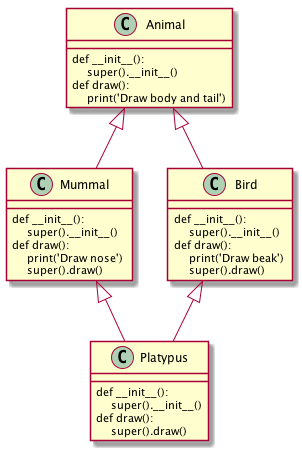
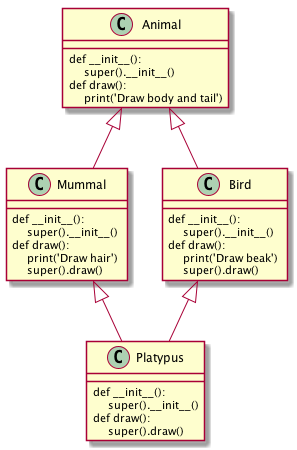
super() - proofreading

diff --git a/posts/ru/_posts/2018-09-20-python_super.md b/posts/ru/_posts/2018-09-20-python_super.md
@@ -2,7 +2,7 @@
 layout: post
 lang: ru
 ref: python_super
-title: "Python super() - нюансы кооперативного вызова унаследованных методом"
+title: "Python super() - нюансы кооперативного наследования"
 comments: true
 tags: [Python]
 ---
@@ -10,49 +10,65 @@ tags: [Python]
 ![](/images/diamond_uml.png){:style="float: right;margin-right: 7px;margin-top: 7px;"}
 ![](/images/object_diamond_uml.png){:style="float: right;margin-right: 7px;margin-top: 7px;"}
 
-## Ромбовидное наследование - C3 MRO
-Ромбовидное наследование (в англоязычной документации - diamond) это когда
-у класса есть несколько родителей (т.е. это 
-[mixin](https://ru.wikipedia.org/wiki/Примесь_(программирование)) 
-в классической терминологии), а у родителей есть общий предок.
+## Ромбовидное наследование
+Ромбовидное наследование (в англоязычной документации - diamond) это ромбы в дереве
+наследования.
 
-Поскольку в Python 3 все классы наследуются в конечном итоге от `object`, формально
-любая ситуация множественного наследования является ромбовидной (поскольку в конечном
-итоге все классы-родители унаследованы от `object`):
+Если у класса есть несколько родителей, а у родителей есть общий предок, получаем 
+ромб в дереве наследования, как видно на диаграмме `Platypus` (утконос).
+Утконос это и птица и млекопитающее, каждый из которых, в свою очередь, является
+животным.
 
-Для поиска методов и полей в дереве родителей, Python использует так называемый C3 алгоритм 
-MRO (method resolution order - не слишком удачное название, учитывая, что так ищутся 
-не только методы).
+Поскольку в Python 3 классы, для которых явно не указан предок, наследуются от 
+`object`, любая ситуация множественного наследования является ромбовидной -
+поскольку в конечном итоге все классы-родители унаследованы от `object`, как
+показано на диаграмме для `ObjectWithMixin`.
 
-Совсем упрощенно алгоритм можно представить так 
+Строго говоря, и в диаграмме для `Platypus`, класс `Animal` наследуется от `object`,
+но я не стал это визуализировать, чтобы не загромождать диаграмму.
+
+## Алгоритм C3 поиска (MRO) в дереве наследования классов Python
+
+Для поиска методов и полей в дереве родителей, Python использует так называемый C3 
+алгоритм MRO.
+
+MRO расшифровывается как method resolution order - не слишком удачное название, 
+учитывая, что так ищутся не только методы, но и поля.
+
+Совсем упрощенно алгоритм можно представить так:
 
 * составляется список родителей объекта
 
-  * рекурсивно добавлет к нему списки родителей этих родителей и так далее.
+  * рекурсивно добавляет к нему списки родителей этих родителей и так далее.
   
-* если какой-то класс оказывается в этом списке дважды, то оставляется только
+* если какой-то класс оказывается в списке дважды, то оставляется только
 последнее его вхождение.
 
-По смыслу - мы движемся по слоям, не обращаемся к слишком далекому предку до того,
-как обратимся ко всем его потомкам, даже если его потомков несколько.
+Как результат, мы движемся по слоям, не обращаемся к слишком далекому предку до 
+того, как обратимся ко всем его потомкам, даже если его потомков несколько.
 
 
 ## super()
 
 Функция super() обеспечивает так называемое "кооперативное" наследование методов.
-Если во всех объектах дерева использовать эту функцию, то она обеспечит вызов
-всех унаследованных методов по описанному выше MRO.
+Если во всех объектах использовать эту функцию, то она обеспечит вызов
+всех методов из дерева наследования по описанному выше MRO.
 
-Тем кто пришел в Python из Java важно понимать, что `super()` это не родитель,
+Тем кто пришел в Python из Java важно понимать, что `super()` это не класс-родитель,
 это прокси с довольно хитрой логикой.
 
-Одним из ограничей `super()` является то, что не получится выполнить операции
-над ним, даже если эти операции реализованы с помощью "магических методов"
-в родителе. 
+#### Примечание - особенности работы super()
 
-Если выполнить операцию над экземпляром наследника, то Python найдет
-нужный для выполнения операции "магический метод" в родителе.
-Но если попытаться выполнить операцию над прокси, возвращаемым `super()`, получим ошибку:
+Одним из ограничений `super()` является то, что не получится выполнить операции
+над ним, даже если эти операции реализованы в родителе с помощью 
+["магических методов"](https://docs.python.org/3/library/operator.html). 
+
+Если выполнить операцию над экземпляром класса, то Python найдет
+нужный для выполнения операции "магический метод" в родителе (в примере ниже -
+`__getitem__` для индексирования с помощью оператора `[]`).
+
+Но если попытаться выполнить операцию над прокси, возвращаемым `super()`, 
+получим ошибку:
 
 {% highlight python %}
     class Parent:
@@ -104,7 +120,7 @@ MRO (method resolution order - не слишком удачное названи
             super().__init__()
     
         def draw(self):
-            print('Draw nose')
+            print('Draw hair')
             super().draw()
     
     
@@ -125,14 +141,14 @@ MRO (method resolution order - не слишком удачное названи
     Mammal.__init__()
     Bird.__init__()
     Animal.__init__()
-    Draw nose
+    Draw hair
     Draw beak
     Draw body and tail
 
 
 Но если хоть один наследник нарушает принципы кооперативного наследования (не
-вызывает `super()`) то метод родителя вообще не будет вызван, хотя
-вроде бы мы имеем явный вызов в классе `Mammal`:
+вызывает `super()`), то метод родителя вообще не будет вызван, хотя
+вроде бы мы имеем явный вызов этого родителя из другого наследника:
 
 {% highlight python %}
     class Animal:
@@ -159,7 +175,7 @@ MRO (method resolution order - не слишком удачное названи
             super().__init__()
     
         def draw(self):
-            print('Draw nose')
+            print('Draw hair')
             super().draw()
     
     
@@ -180,18 +196,19 @@ MRO (method resolution order - не слишком удачное названи
     Mammal.__init__()
     Bird.__init__()
     Animal.__init__()
-    Draw nose
+    Draw hair
     Draw beak
     
     
-Мы не вызываем `super()` в `Bird` а в результате нет вроде бы явного вызова
-из `Mammal`.
+Мы не вызываем `super()` в `Bird`, а в результате нет вроде бы явного вызова
+`Animal` из `Mammal`.
 
 Так происходит потому, что `super()` это прокси объект, реализующий
-MRO, а вовсе не ссылка на предка, т.е. название скорее вводит в заблуждение.
+MRO, а вовсе не ссылка на предка. Название скорее вводит в заблуждение.
 
-Python для показанной выше иерархии объектов строит MRO, в котором убран 
-повтор `Animal` для первого из предков (`Mammal`).
+Python для показанной выше иерархии объектов строит список для MRO, в котором 
+убрано первое появление `Animal` (для `Mammal`), а оставлено только
+последнее (для `Bird`).
  
-А, поскольку второй предок, `Bird` теперь не вызывает  метод `draw()`
-из MRO (с помощью `super()`), `Animal.draw()` не вызывается вовсе.
+Поскольку в `Bird` в этом варианте кода не вызывается `super().draw()`, 
+то `Animal.draw()` не вызывается вовсе.
